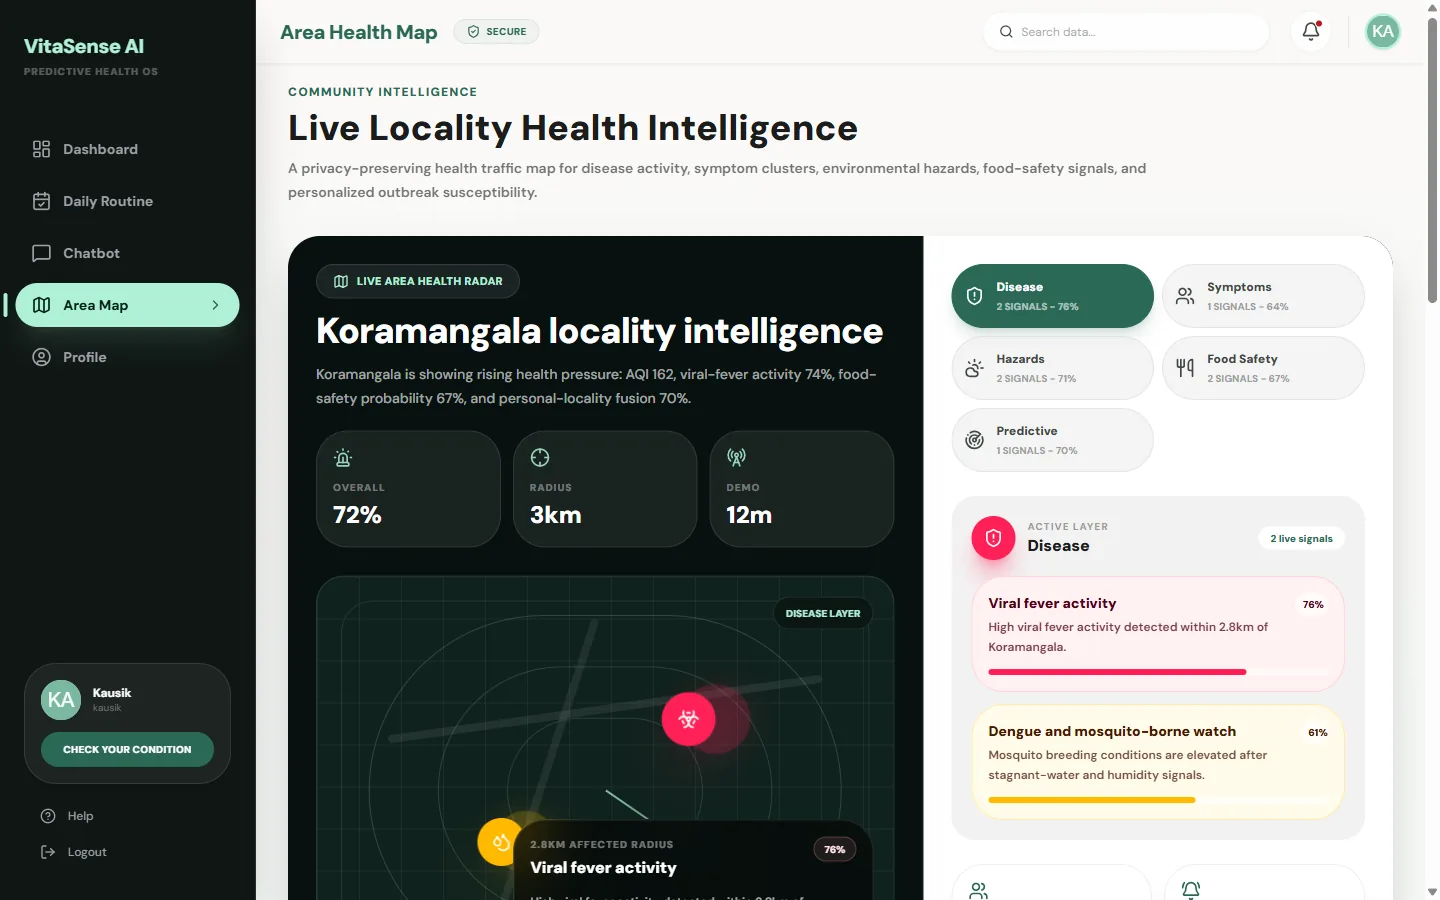
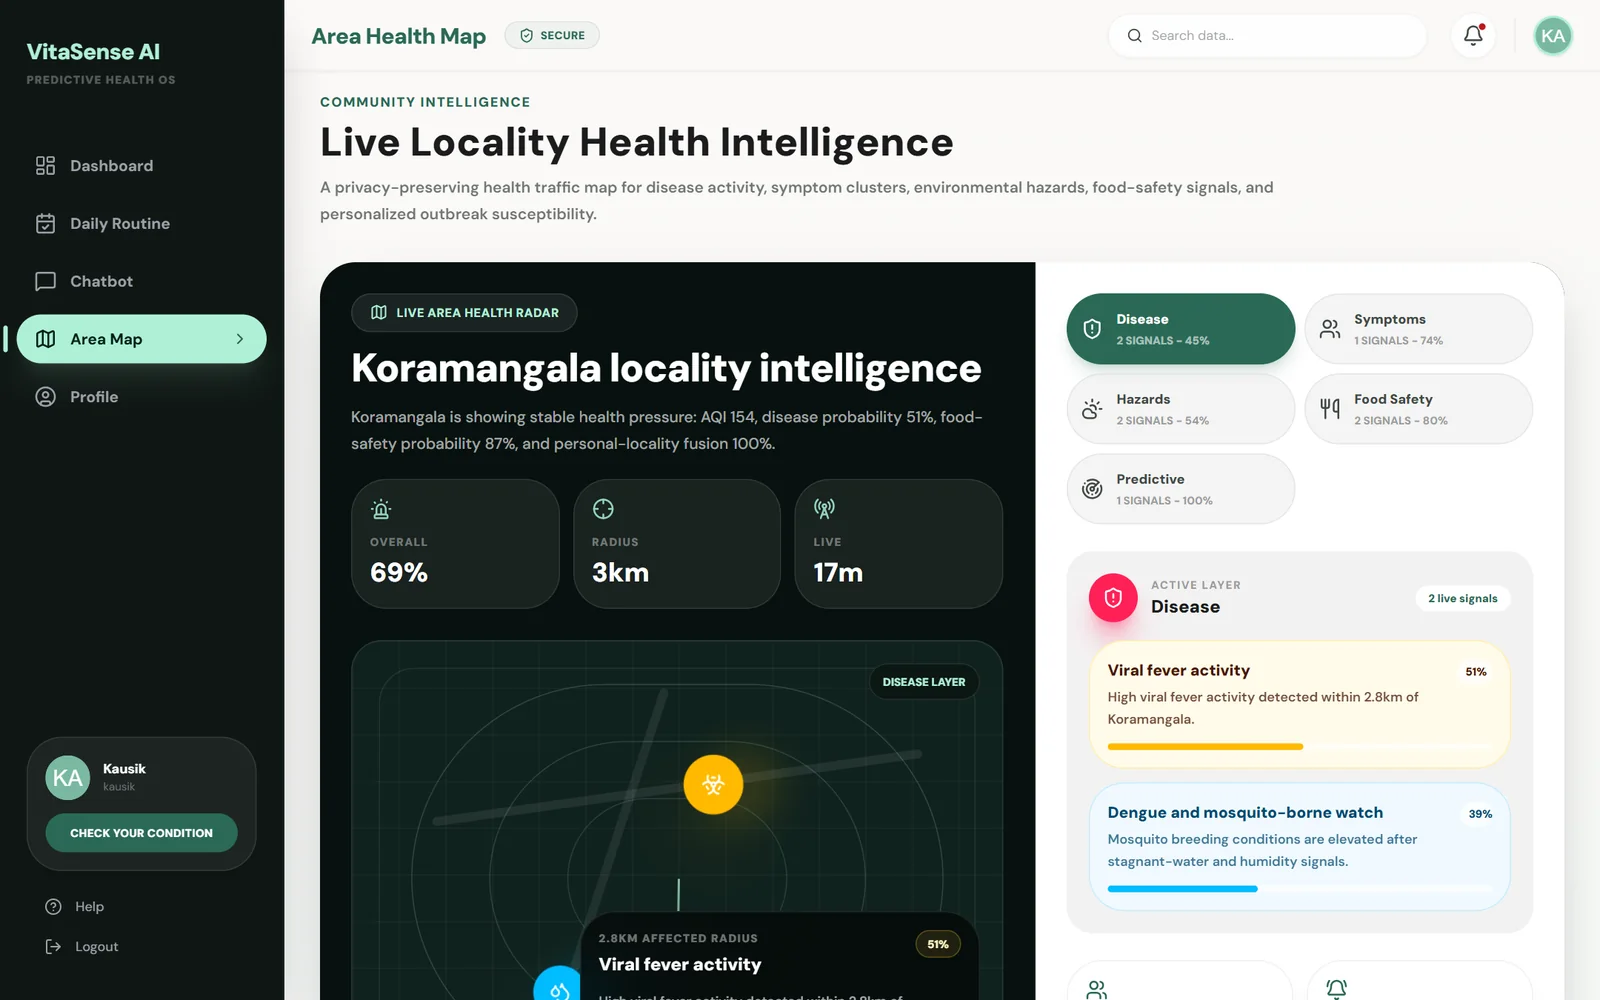
Hero like the references; more VitaSense screens; repo links
- Hero rebuilt after the editorial reference: oversized "Hello", a
  frameless portrait rising from the bottom edge, side rail, stats on
  top and a scroll cue.
- VitaSense gets seven new screens (forecast, causal timeline,
  physiology map, adaptive plan, area map, daily routine, chat) and a
  link to its new repo.
- CityFix (VISAI first prize) now links to its repo.

diff --git a/src/components/Hero.tsx b/src/components/Hero.tsx
@@ -1,51 +1,106 @@
 "use client";
 
-import { motion } from "framer-motion";
+import { motion, useReducedMotion, useScroll, useTransform } from "framer-motion";
+import { useRef } from "react";
 import { heroStats, profile, recognisedAt } from "@/content/site";
-import { ArrowRight, ArrowUpRight, GitHub, Trophy } from "./ui/Icons";
+import { ArrowDown, ArrowRight, ArrowUpRight, Trophy } from "./ui/Icons";
 
 const ease = [0.22, 1, 0.36, 1] as const;
 const rise = (delay: number) => ({
-  initial: { opacity: 0, y: 24 },
+  initial: { opacity: 0, y: 22 },
   animate: { opacity: 1, y: 0 },
   transition: { duration: 0.9, delay, ease },
 });
 
 export function Hero() {
+  const ref = useRef<HTMLElement>(null);
+  const reduce = useReducedMotion();
+  const { scrollYProgress } = useScroll({ target: ref, offset: ["start start", "end start"] });
+  const photoY = useTransform(scrollYProgress, [0, 1], [0, reduce ? 0 : 90]);
+  const wordY = useTransform(scrollYProgress, [0, 1], [0, reduce ? 0 : -60]);
+
   return (
-    <section id="top" className="relative pt-20">
-      <div className="relative mx-auto max-w-[1240px] px-5 sm:px-8">
-        {/* Vertical rail, as in the reference layout */}
+    <section id="top" ref={ref} className="relative overflow-hidden">
+      <div className="relative flex flex-col lg:block lg:h-[max(720px,min(100svh,960px))]">
+        {/* Portrait: frameless, on the page's own background, rising from the bottom edge */}
         <motion.div
-          {...rise(0.5)}
-          className="pointer-events-none absolute bottom-10 left-0 top-10 hidden w-8 flex-col items-center justify-between xl:flex"
-          aria-hidden
+          style={{ y: photoY }}
+          className="pointer-events-none relative order-last h-[min(118vw,560px)] w-full lg:absolute lg:bottom-0 lg:right-0 lg:top-20 lg:h-auto lg:w-[54%]"
+          initial={{ opacity: 0 }}
+          animate={{ opacity: 1 }}
+          transition={{ duration: 1.4, delay: 0.15, ease }}
         >
-          <span className="label whitespace-nowrap text-muted [writing-mode:vertical-rl] rotate-180">AI/ML · Full-stack</span>
-          <span className="my-6 w-px flex-1 bg-line-strong" />
-          <span className="label text-muted [writing-mode:vertical-rl] rotate-180">2026</span>
+          <div className="hero-glow absolute inset-0" aria-hidden />
+          <motion.img
+            src={profile.photo}
+            alt={`Portrait of ${profile.name}`}
+            fetchPriority="high"
+            className="hero-photo absolute bottom-0 left-1/2 h-[104%] w-auto max-w-none -translate-x-1/2 object-contain object-bottom"
+            initial={{ scale: 1.05, y: 30 }}
+            animate={{ scale: 1, y: 0 }}
+            transition={{ duration: 1.6, delay: 0.15, ease }}
+          />
         </motion.div>
 
-        <div className="grid items-end gap-12 lg:min-h-[min(calc(100svh-5rem),860px)] lg:grid-cols-12 lg:gap-8 xl:pl-10">
-          <div className="flex flex-col justify-center pb-4 pt-10 lg:col-span-7 lg:h-full lg:pb-12 lg:pt-10">
-            <div>
-              <motion.p {...rise(0.08)} className="label flex items-center gap-3 text-accent">
-                <span className="h-px w-8 bg-accent" />
-                Hello, I&apos;m {profile.shortName}
-              </motion.p>
+        <div className="relative mx-auto flex h-full max-w-[1240px] flex-col px-5 pt-24 sm:px-8 lg:pt-20">
+          {/* Vertical rail */}
+          <motion.div
+            {...rise(0.6)}
+            className="pointer-events-none absolute bottom-12 left-0 top-32 hidden w-8 flex-col items-center justify-between xl:flex"
+            aria-hidden
+          >
+            <span className="label rotate-180 whitespace-nowrap text-muted [writing-mode:vertical-rl]">AI/ML engineer · Full-stack</span>
+            <span className="my-6 w-px flex-1 bg-line-strong" />
+            <span className="label rotate-180 text-muted [writing-mode:vertical-rl]">2026</span>
+          </motion.div>
 
-              <motion.h1
-                {...rise(0.16)}
-                className="mt-6 max-w-[16ch] font-serif text-[3.1rem] leading-[0.96] tracking-[-0.02em] text-ink sm:text-[4.2rem] lg:text-[4.3rem] xl:text-[4.75rem]"
-              >
-                AI Engineer &amp; Full&#8209;Stack Developer, building systems that <em className="text-accent">act.</em>
+          <div className="flex flex-1 flex-col lg:max-w-[50%] xl:pl-14">
+            {/* Stats, top left as in the reference */}
+            <motion.dl {...rise(0.45)} className="mt-6 grid max-w-[30rem] grid-cols-3 gap-x-6 lg:mt-10">
+              {heroStats.map((s) => (
+                <div key={s.label}>
+                  <dt className="sr-only">{s.label}</dt>
+                  <dd>
+                    <span className="block text-[2.2rem] font-light leading-none tracking-[-0.04em] text-ink sm:text-[2.6rem]">
+                      {s.value}
+                      {s.suffix && <span className="ml-0.5 align-top text-[0.55em] text-accent">{s.suffix}</span>}
+                    </span>
+                    <span className="mt-2 block text-[13px] text-muted">{s.label}</span>
+                  </dd>
+                </div>
+              ))}
+            </motion.dl>
+
+            <div className="flex flex-1 flex-col justify-center py-10 lg:py-6">
+              <motion.h1 style={{ y: wordY }}>
+                <span className="block overflow-hidden pb-[0.06em]">
+                  <span className="flex text-[clamp(5.6rem,min(17vw,23svh),12.5rem)] font-extralight leading-[0.86] tracking-[-0.06em] text-ink">
+                    {"Hello".split("").map((ch, i) => (
+                      <motion.span
+                        key={i}
+                        className="inline-block"
+                        initial={{ y: "105%" }}
+                        animate={{ y: 0 }}
+                        transition={{ duration: 1.05, delay: 0.1 + i * 0.06, ease }}
+                      >
+                        {ch}
+                      </motion.span>
+                    ))}
+                  </span>
+                </span>
+                <motion.span {...rise(0.55)} className="mt-6 flex items-baseline gap-3 text-[1.35rem] leading-snug text-ink sm:text-[1.6rem]">
+                  <span className="text-accent">—</span>
+                  <span>
+                    I&apos;m <span className="font-serif text-[1.25em] italic">{profile.shortName}</span>, an AI engineer and full&#8209;stack developer.
+                  </span>
+                </motion.span>
               </motion.h1>
 
-              <motion.p {...rise(0.26)} className="mt-7 max-w-[34rem] text-[17px] leading-relaxed text-ink-2 sm:text-lg">
-                {profile.summary}
+              <motion.p {...rise(0.65)} className="mt-5 max-w-[30rem] text-[16px] leading-relaxed text-ink-2 sm:text-[17px]">
+                {profile.heroLine}
               </motion.p>
 
-              <motion.div {...rise(0.34)} className="mt-8 flex flex-wrap items-center gap-x-7 gap-y-4">
+              <motion.div {...rise(0.75)} className="mt-8 flex flex-wrap items-center gap-x-7 gap-y-4">
                 <a
                   href="#work"
                   className="label group inline-flex items-center gap-2.5 rounded-full bg-ink px-6 py-4 text-paper transition-colors hover:bg-accent"
@@ -56,91 +111,59 @@ export function Hero() {
                 <a href={profile.resume} target="_blank" rel="noopener" className="label link-underline text-ink">
                   Download résumé
                 </a>
-                <a
-                  href={profile.github}
-                  target="_blank"
-                  rel="noopener"
-                  className="label inline-flex items-center gap-2 text-ink-2 transition-colors hover:text-ink"
-                >
-                  <GitHub width={16} height={16} /> {profile.githubHandle}
-                </a>
               </motion.div>
             </div>
 
-            <motion.div {...rise(0.44)} className="mt-10 flex flex-wrap items-end gap-x-12 gap-y-6 border-t border-line pt-7">
-              <dl className="contents">
-              {heroStats.map((s) => (
-                <div key={s.label}>
-                  <dt className="sr-only">{s.label}</dt>
-                  <dd>
-                    <span className="block font-serif text-[2.6rem] leading-none tracking-[-0.01em] text-ink">
-                      {s.value}
-                      {s.suffix && <span className="ml-0.5 text-[0.7em] text-accent">{s.suffix}</span>}
-                    </span>
-                    <span className="mt-2 block text-[13px] text-muted">{s.label}</span>
-                  </dd>
-                </div>
-              ))}
-              </dl>
-            </motion.div>
-          </div>
-
-          <motion.div
-            className="relative mx-auto w-full max-w-[460px] lg:col-span-5 lg:mx-0 lg:h-full lg:max-w-none lg:pt-6"
-            initial={{ opacity: 0, y: 40 }}
-            animate={{ opacity: 1, y: 0 }}
-            transition={{ duration: 1.1, delay: 0.1, ease }}
-          >
-            <div className="window-light grain relative aspect-[4/5] overflow-hidden rounded-t-[28px] lg:aspect-auto lg:h-full">
-              <motion.img
-                src={profile.photo}
-                alt={`Portrait of ${profile.name}`}
-                fetchPriority="high"
-                className="absolute bottom-0 left-1/2 h-[96%] w-auto max-w-none -translate-x-1/2 object-contain object-bottom"
-                initial={{ scale: 1.04 }}
-                animate={{ scale: 1 }}
-                transition={{ duration: 1.6, delay: 0.1, ease }}
-              />
-            </div>
-
-            <motion.div
-              initial={{ opacity: 0, y: 14 }}
-              animate={{ opacity: 1, y: 0 }}
-              transition={{ duration: 0.8, delay: 0.75, ease }}
-              className="absolute right-3 top-6 flex items-center gap-2.5 rounded-full border border-white/60 bg-white/70 py-2 pl-2 pr-4 shadow-[0_12px_30px_-18px_rgba(20,19,17,0.5)] backdrop-blur-md sm:right-5 lg:top-12"
-            >
-              <span className="grid h-7 w-7 place-items-center rounded-full bg-ink text-paper">
-                <Trophy width={14} height={14} />
-              </span>
-              <span className="text-[13px] font-medium text-ink">1st prize · VISAI 2025</span>
-            </motion.div>
-
             <motion.a
-              href="#oilintelligence"
-              initial={{ opacity: 0, y: 18 }}
-              animate={{ opacity: 1, y: 0 }}
-              transition={{ duration: 0.8, delay: 0.9, ease }}
-              className="group absolute bottom-5 left-3 right-3 block rounded-2xl border border-white/60 bg-white/75 p-4 shadow-[0_20px_40px_-24px_rgba(20,19,17,0.55)] backdrop-blur-md sm:left-5 sm:right-auto sm:max-w-[290px] lg:bottom-6 lg:left-6"
+              {...rise(0.9)}
+              href="#work"
+              className="label mb-10 hidden w-fit items-center gap-2 text-ink-2 transition-colors hover:text-ink lg:inline-flex"
             >
-              <span className="label flex items-center gap-2 text-accent">
-                <span className="relative flex h-1.5 w-1.5">
-                  <span className="absolute inline-flex h-full w-full animate-ping rounded-full bg-accent opacity-60" />
-                  <span className="relative inline-flex h-1.5 w-1.5 rounded-full bg-accent" />
-                </span>
-                Currently building
-              </span>
-              <span className="mt-2 block text-[15px] font-medium leading-snug text-ink">
-                OILINTELLIGENCE: physics-guided ML that finds where crude oil goes missing.
-              </span>
-              <span className="label mt-3 inline-flex items-center gap-1.5 text-ink-2 group-hover:text-ink">
-                See the project <ArrowUpRight width={13} height={13} />
-              </span>
+              Scroll down
+              <motion.span animate={reduce ? undefined : { y: [0, 4, 0] }} transition={{ duration: 1.8, repeat: Infinity, ease: "easeInOut" }}>
+                <ArrowDown width={14} height={14} />
+              </motion.span>
             </motion.a>
-          </motion.div>
+          </div>
         </div>
+
+        {/* Floating notes over the portrait */}
+        <motion.div
+          initial={{ opacity: 0, y: 14 }}
+          animate={{ opacity: 1, y: 0 }}
+          transition={{ duration: 0.8, delay: 1, ease }}
+          className="absolute right-5 top-[calc(100%-min(118vw,560px)+1.25rem)] z-10 flex items-center gap-2.5 rounded-full border border-white/70 bg-white/70 py-2 pl-2 pr-4 shadow-[0_12px_30px_-18px_rgba(20,19,17,0.5)] backdrop-blur-md lg:left-[51%] lg:right-auto lg:top-[60%]"
+        >
+          <span className="grid h-7 w-7 place-items-center rounded-full bg-ink text-paper">
+            <Trophy width={14} height={14} />
+          </span>
+          <span className="text-[13px] font-medium text-ink">1st prize · VISAI 2025</span>
+        </motion.div>
+
+        <motion.a
+          href="#oilintelligence"
+          initial={{ opacity: 0, y: 18 }}
+          animate={{ opacity: 1, y: 0 }}
+          transition={{ duration: 0.8, delay: 1.15, ease }}
+          className="group absolute bottom-6 right-5 z-10 hidden max-w-[280px] rounded-2xl border border-white/70 bg-white/75 p-4 shadow-[0_20px_40px_-24px_rgba(20,19,17,0.55)] backdrop-blur-md sm:block lg:bottom-12 lg:right-[max(2rem,calc((100vw-1240px)/2+2rem))]"
+        >
+          <span className="label flex items-center gap-2 text-accent">
+            <span className="relative flex h-1.5 w-1.5">
+              <span className="absolute inline-flex h-full w-full animate-ping rounded-full bg-accent opacity-60" />
+              <span className="relative inline-flex h-1.5 w-1.5 rounded-full bg-accent" />
+            </span>
+            Currently building
+          </span>
+          <span className="mt-2 block text-[15px] font-medium leading-snug text-ink">
+            OILINTELLIGENCE: physics-guided ML that finds where crude oil goes missing.
+          </span>
+          <span className="label mt-3 inline-flex items-center gap-1.5 text-ink-2 group-hover:text-ink">
+            See the project <ArrowUpRight width={13} height={13} />
+          </span>
+        </motion.a>
       </div>
 
-      <div className="border-y border-line bg-surface/60">
+      <div className="relative border-y border-line bg-surface">
         <div className="mx-auto flex max-w-[1240px] flex-col gap-4 px-5 py-6 sm:px-8 md:flex-row md:items-center md:gap-10">
           <p className="label shrink-0 text-muted">Recognised at</p>
           <ul className="flex flex-wrap items-center gap-x-3 gap-y-2">

diff --git a/src/content/site.ts b/src/content/site.ts
@@ -38,16 +38,17 @@ export const profile = {
   github: "https://github.com/kauziee-hub",
   githubHandle: "kauziee-hub",
   resume: "/Kausik_Ganapathy_Hari_Resume.pdf",
-  photo: "/images/profile/kausik-cutout.webp",
+  photo: "/images/profile/kausik-hero.webp",
   photoFull: "/images/profile/kausik.webp",
+  heroLine: "Computer Science at VIT Chennai and Data Science at IIT Madras. Founder of Locah. I build the model, the backend and the interface.",
   summary:
     "Computer Science at VIT Chennai, Data Science at IIT Madras, founder of Locah. I build the models, the backend and the interface people actually use, from fraud checks that run before money moves to AI staff for small shops.",
 };
 
 export const heroStats = [
-  { value: "2", suffix: "×", label: "Hackathon prize winner" },
-  { value: "7", suffix: "", label: "Systems built end to end" },
-  { value: "33", suffix: "", label: "Modules live in Locah" },
+  { value: "2", suffix: "×", label: "Hackathon prizes" },
+  { value: "7", suffix: "", label: "Systems shipped" },
+  { value: "33", suffix: "", label: "Modules in Locah" },
 ];
 
 export const recognisedAt = [
@@ -301,9 +302,16 @@ export const projects: Project[] = [
     stack: ["Next.js", "React", "TypeScript", "FastAPI", "Supabase", "PostgreSQL", "Gemini / Grok", "Tailwind CSS"],
     media: [
       { src: "/media/vitasense-walkthrough.webp", video: "/media/vitasense-walkthrough.mp4", caption: "The daily forecast, the physiology map and locality health intelligence" },
-      { src: "/images/work/vitasense/dashboard.webp", caption: "Dashboard: the predictive wellness forecast and engine scores" },
-      { src: "/images/work/vitasense/area-map.webp", caption: "Locality health intelligence around the user" },
+      { src: "/images/work/vitasense/dashboard.webp", caption: "The wellness forecast: a 48-hour prediction, readiness score and the engines behind it" },
+      { src: "/images/work/vitasense/causal-forecast.webp", caption: "Why it's happening: a causal timeline from 30 days of signals, and what to expect in the next 24 to 72 hours" },
+      { src: "/images/work/vitasense/physiology-map.webp", caption: "Physiology map: eight body systems scored against the user's own monthly baseline" },
+      { src: "/images/work/vitasense/adaptive-plan.webp", caption: "Personal patterns, an adaptive plan for the day and a live local watch layer" },
+      { src: "/images/work/vitasense/area-map.webp", caption: "Area health map: disease, symptom and hazard signals within 3 km" },
+      { src: "/images/work/vitasense/daily-routine.webp", caption: "Daily routine: quick check-ins for food, mood, body and events that feed the forecast" },
+      { src: "/images/work/vitasense/chat.webp", caption: "The health companion, with a medical safety layer that blocks diagnoses and catches emergencies (demo conversation)" },
+      { src: "/images/work/vitasense/welcome.webp", caption: "Welcome screen" },
     ],
+    links: [{ label: "Source", href: gh("VitaSense-AI"), kind: "code" }],
   },
   {
     id: "obsidian-mcp",
@@ -455,6 +463,8 @@ export type Recognition = {
   date: string;
   project: string;
   projectId?: string;
+  /** External link (e.g. the repo) for a project that has no case study on this page. */
+  projectUrl?: string;
   text: string;
   photos: Media[];
 };
@@ -467,6 +477,7 @@ export const recognition: Recognition[] = [
     event: "Vel Tech R&D Institute, Chennai, with the Indian National Commission for Cooperation with UNESCO",
     date: "24 Feb 2025",
     project: "CityFix",
+    projectUrl: gh("CityFix"),
     text: "We won first prize in the Hackathon category with CityFix, built for a problem statement set by Renault-Nissan. Citizens drop a pin to report a civic issue, and a routing engine finds the ward, the department and the best worker for it. It was our first hackathon win.",
     photos: [
       { src: "/images/recognition/visai-stage.webp", caption: "Receiving first prize on stage at VISAI 2025" },

diff --git a/src/components/Recognition.tsx b/src/components/Recognition.tsx
@@ -1,7 +1,7 @@
 "use client";
 
 import { recognition, technovaShortlist, type Media, type Recognition as R } from "@/content/site";
-import { ArrowRight, Expand, Trophy } from "./ui/Icons";
+import { ArrowRight, ArrowUpRight, Expand, Trophy } from "./ui/Icons";
 import { useLightbox } from "./ui/Lightbox";
 import { Reveal } from "./ui/Reveal";
 import { SectionHeading } from "./ui/SectionHeading";
@@ -122,6 +122,16 @@ export function Recognition() {
                       >
                         Project: <span className="link-underline text-white">{r.project}</span>
                         <ArrowRight width={13} height={13} />
+                      </a>
+                    ) : r.projectUrl ? (
+                      <a
+                        href={r.projectUrl}
+                        target="_blank"
+                        rel="noopener"
+                        className="label mt-6 inline-flex items-center gap-2 text-white/70 transition-colors hover:text-white"
+                      >
+                        Project: <span className="link-underline text-white">{r.project}</span> · Source
+                        <ArrowUpRight width={13} height={13} />
                       </a>
                     ) : (
                       <p className="label mt-6 text-white/50">

diff --git a/src/app/globals.css b/src/app/globals.css
@@ -76,12 +76,16 @@ body {
   background-position: 100% 100%;
 }
 
-/* Soft window-light pattern behind the hero portrait */
-.window-light {
+/* Studio light behind the hero portrait: a soft pool of warm grey on the page itself, no frame */
+.hero-glow {
   background:
-    linear-gradient(115deg, transparent 0 18%, rgb(255 255 255 / 0.32) 18% 27%, transparent 27% 31%, rgb(255 255 255 / 0.26) 31% 40%, transparent 40%),
-    radial-gradient(120% 80% at 80% 0%, #efe9df 0%, transparent 60%),
-    linear-gradient(180deg, #e6dfd3 0%, #d9d0c2 100%);
+    radial-gradient(44% 50% at 50% 44%, rgb(225 216 202 / 0.9) 0%, rgb(232 225 214 / 0.55) 45%, transparent 75%);
+}
+
+/* Fade the portrait's sides into the page so it never reads as a pasted rectangle */
+.hero-photo {
+  -webkit-mask-image: linear-gradient(to right, transparent 2%, #000 13%, #000 87%, transparent 98%);
+  mask-image: linear-gradient(to right, transparent 2%, #000 13%, #000 87%, transparent 98%);
 }
 
 /* Fine paper grain over large flat areas */
